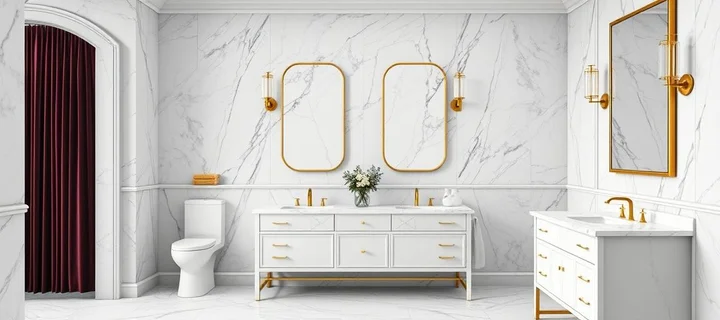
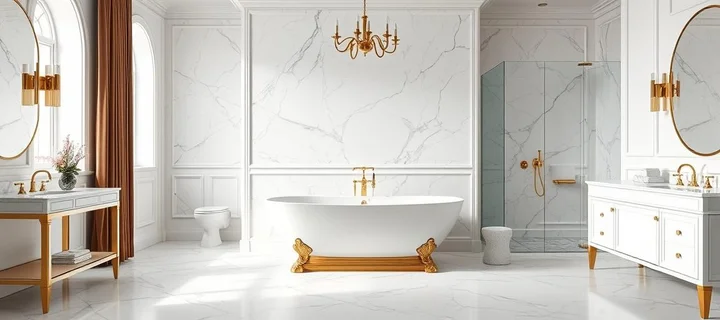
fix #1: в превью ванной не было ванны
ROOM_DNA['bathroom'] не содержал bathtub → FLUX рисовал
санузел без ванны. Добавлен «freestanding bathtub as the
focal point» + walk-in shower; 3 bathroom-превью
перегенерированы.

diff --git a/generate_assets_hf.py b/generate_assets_hf.py
@@ -54,7 +54,7 @@ STYLE_DNA = {
 ROOM_DNA = {
     'living':   'living room, comfortable seating, coffee table, ambient lighting',
     'bedroom':  'bedroom, bed with pillows, bedside tables, soft warm lighting',
-    'bathroom': 'bathroom, clean white fixtures, natural stone, elegant vanity',
+    'bathroom': 'bathroom with a freestanding bathtub as the focal point, clean white fixtures, natural stone, elegant vanity, walk-in shower',
     'kitchen':  'kitchen, functional workspace, clean countertops, organized storage',
 }
 